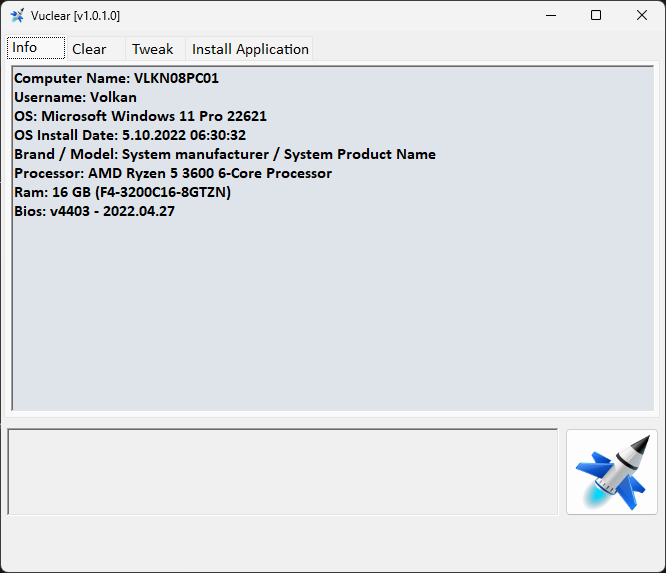
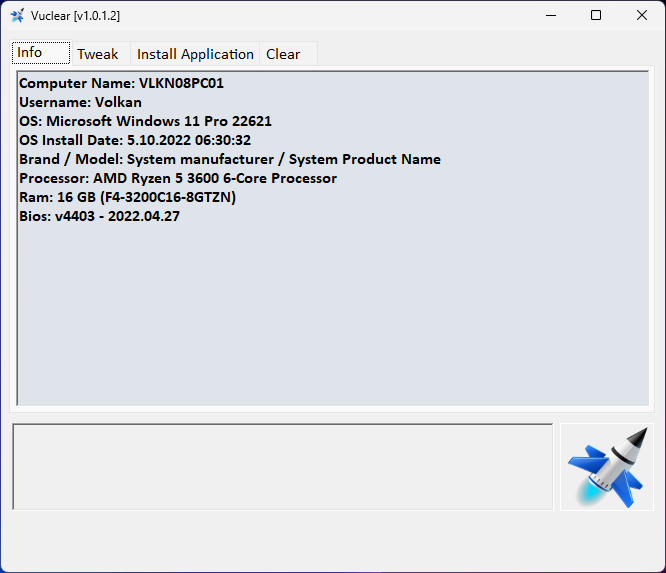
update to 1.0.1.2

diff --git a/README.md b/README.md
@@ -2,8 +2,10 @@
 
 *** This application must be run as administrator ***
 
-- Cleans up unnecessary windows files.
-- All necessary tools after windows installation
-- Install application
+- Computer info
+- All necessary tweaks after windows installation
+- Install application from winget
+- Cleans up unnecessary windows files
+
 ## Screenshot
 ![alt text](https://github.com/volkanustabas/Vuclear/blob/master/ss_vuclear.png)
